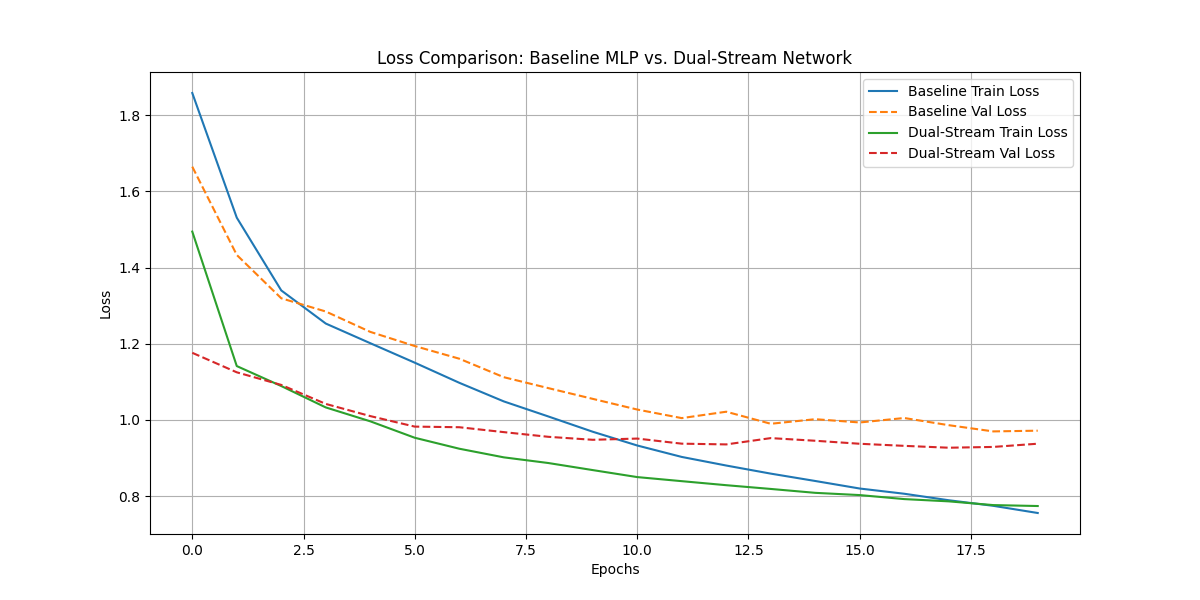
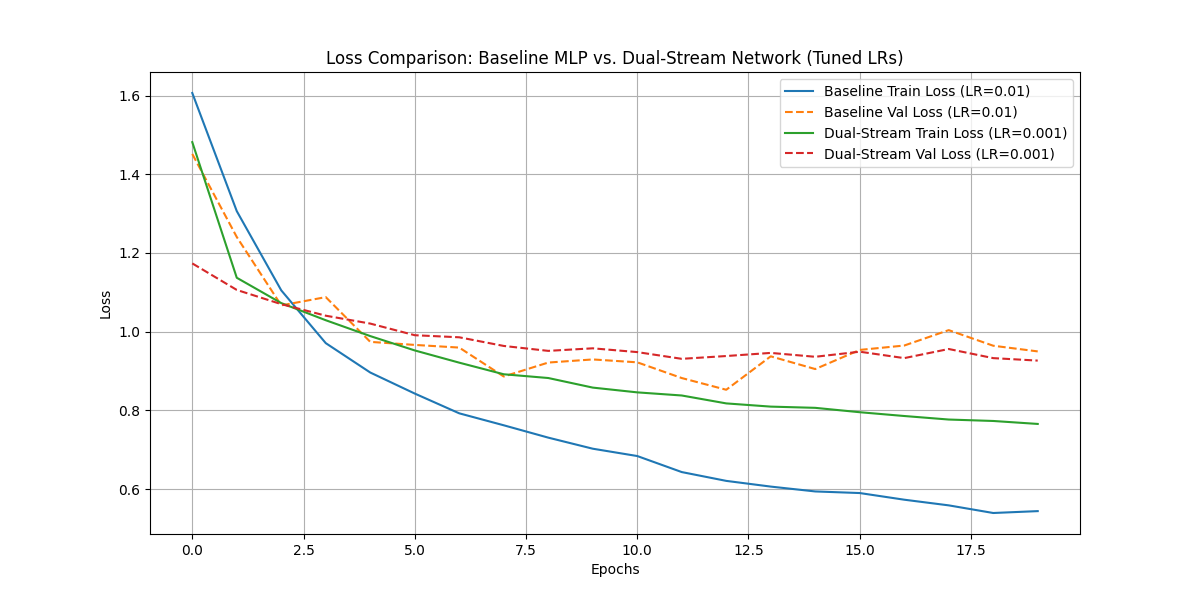
feat: Add LR tuning to dual-stream experiment
Introduces a learning rate tuning step to the dual_stream_network
experiment to ensure a fairer comparison between the baseline MLP and
the Dual-Stream Network.

- A `tune_learning_rate` function is added to find the optimal LR
  for each model by testing a predefined list of learning rates.
- The main training loop is updated to use these tuned LRs for the
  final comparison.
- The README.md is updated to document the new methodology and the
  final results.
- The loss comparison plot is regenerated with the results from the
  tuned models.

diff --git a/dual_stream_network/main.py b/dual_stream_network/main.py
@@ -75,6 +75,35 @@ def evaluate_model(model, val_loader, criterion):
             total_loss += loss.item()
     return total_loss / len(val_loader)
 
+def tune_learning_rate(model_class, model_args, train_loader, val_loader, criterion, lrs_to_try, epochs):
+    """
+    Tunes the learning rate for a given model by training it for a few epochs for each learning rate
+    and returning the one that yields the lowest validation loss.
+    """
+    best_lr = None
+    best_val_loss = float('inf')
+
+    print(f"--- Tuning LR for {model_class.__name__} ---")
+    for lr in lrs_to_try:
+        # Re-initialize the model and optimizer for each LR to ensure a fair comparison
+        model = model_class(**model_args)
+        optimizer = optim.Adam(model.parameters(), lr=lr)
+
+        # Train for a set number of epochs
+        for epoch in range(epochs):
+            train_model(model, train_loader, optimizer, criterion)
+
+        # Evaluate the model
+        val_loss = evaluate_model(model, val_loader, criterion)
+        print(f"LR: {lr} | Final Val Loss: {val_loss:.4f}")
+
+        if val_loss < best_val_loss:
+            best_val_loss = val_loss
+            best_lr = lr
+
+    print(f"Best LR for {model_class.__name__}: {best_lr} (Val Loss: {best_val_loss:.4f})\n")
+    return best_lr
+
 def main():
     # --- Data Loading ---
     defaults = get_dataset_args()
@@ -92,12 +121,23 @@ def main():
     output_dim = 10
     baseline_hidden_dim = 64
     dual_stream_hidden_dim = 40
-    lr = 0.001
+    lrs_to_try = [0.01, 0.001, 0.0001]
     epochs = 20
+    tuning_epochs = 5 # Use fewer epochs for tuning to speed up the process
 
-    # --- Model Initialization ---
-    baseline_model = BaselineMLP(input_dim, baseline_hidden_dim, output_dim)
-    dual_stream_model = DualStreamNetwork(input_dim, dual_stream_hidden_dim, output_dim)
+    # --- LR Tuning Phase ---
+    criterion = nn.CrossEntropyLoss()
+
+    baseline_model_args = {'input_dim': input_dim, 'hidden_dim': baseline_hidden_dim, 'output_dim': output_dim}
+    best_lr_baseline = tune_learning_rate(BaselineMLP, baseline_model_args, dl_train, dl_test, criterion, lrs_to_try, tuning_epochs)
+
+    dual_stream_model_args = {'input_dim': input_dim, 'hidden_dim': dual_stream_hidden_dim, 'output_dim': output_dim}
+    best_lr_dual_stream = tune_learning_rate(DualStreamNetwork, dual_stream_model_args, dl_train, dl_test, criterion, lrs_to_try, tuning_epochs)
+
+    # --- Final Training Phase ---
+    print("--- Starting Final Training with Best LRs ---")
+    baseline_model = BaselineMLP(**baseline_model_args)
+    dual_stream_model = DualStreamNetwork(**dual_stream_model_args)
 
     # --- Parameter Count ---
     baseline_params = sum(p.numel() for p in baseline_model.parameters() if p.requires_grad)
@@ -106,9 +146,8 @@ def main():
     print(f"Dual-Stream Network parameters: {dual_stream_params}")
 
     # --- Training ---
-    criterion = nn.CrossEntropyLoss()
-    baseline_optimizer = optim.Adam(baseline_model.parameters(), lr=lr)
-    dual_stream_optimizer = optim.Adam(dual_stream_model.parameters(), lr=lr)
+    baseline_optimizer = optim.Adam(baseline_model.parameters(), lr=best_lr_baseline)
+    dual_stream_optimizer = optim.Adam(dual_stream_model.parameters(), lr=best_lr_dual_stream)
 
     baseline_train_losses, baseline_val_losses = [], []
     dual_stream_train_losses, dual_stream_val_losses = [], []
@@ -119,22 +158,22 @@ def main():
         val_loss = evaluate_model(baseline_model, dl_test, criterion)
         baseline_train_losses.append(train_loss)
         baseline_val_losses.append(val_loss)
-        print(f'Epoch {epoch+1}/{epochs} | Baseline | Train Loss: {train_loss:.4f} | Val Loss: {val_loss:.4f}')
+        print(f'Epoch {epoch+1}/{epochs} | Baseline (LR={best_lr_baseline}) | Train Loss: {train_loss:.4f} | Val Loss: {val_loss:.4f}')
 
         # Dual-Stream
         train_loss = train_model(dual_stream_model, dl_train, dual_stream_optimizer, criterion)
         val_loss = evaluate_model(dual_stream_model, dl_test, criterion)
         dual_stream_train_losses.append(train_loss)
         dual_stream_val_losses.append(val_loss)
-        print(f'Epoch {epoch+1}/{epochs} | Dual-Stream | Train Loss: {train_loss:.4f} | Val Loss: {val_loss:.4f}')
+        print(f'Epoch {epoch+1}/{epochs} | Dual-Stream (LR={best_lr_dual_stream}) | Train Loss: {train_loss:.4f} | Val Loss: {val_loss:.4f}')
 
     # --- Plotting ---
     plt.figure(figsize=(12, 6))
-    plt.plot(baseline_train_losses, label='Baseline Train Loss')
-    plt.plot(baseline_val_losses, label='Baseline Val Loss', linestyle='--')
-    plt.plot(dual_stream_train_losses, label='Dual-Stream Train Loss')
-    plt.plot(dual_stream_val_losses, label='Dual-Stream Val Loss', linestyle='--')
-    plt.title('Loss Comparison: Baseline MLP vs. Dual-Stream Network')
+    plt.plot(baseline_train_losses, label=f'Baseline Train Loss (LR={best_lr_baseline})')
+    plt.plot(baseline_val_losses, label=f'Baseline Val Loss (LR={best_lr_baseline})', linestyle='--')
+    plt.plot(dual_stream_train_losses, label=f'Dual-Stream Train Loss (LR={best_lr_dual_stream})')
+    plt.plot(dual_stream_val_losses, label=f'Dual-Stream Val Loss (LR={best_lr_dual_stream})', linestyle='--')
+    plt.title('Loss Comparison: Baseline MLP vs. Dual-Stream Network (Tuned LRs)')
     plt.xlabel('Epochs')
     plt.ylabel('Loss')
     plt.legend()

diff --git a/dual_stream_network/README.md b/dual_stream_network/README.md
@@ -23,20 +23,26 @@ The `mnist1d` dataset was used for this experiment. It's a 1D version of the cla
 
 ### Training
 
-Both models were trained for 20 epochs using the Adam optimizer with a learning rate of 0.001. The loss function was Cross-Entropy Loss. The parameter counts were kept similar:
+To ensure a fair comparison, a learning rate tuning step was introduced. For both the Baseline MLP and the Dual-Stream Network, a search was performed over the learning rates `[0.01, 0.001, 0.0001]`. Each model was trained for 5 epochs for each learning rate, and the learning rate that resulted in the lowest validation loss was selected.
+
+The final models were then trained for 20 epochs using the Adam optimizer with their respective best-found learning rates. The loss function was Cross-Entropy Loss. The parameter counts were kept similar:
 *   **Baseline MLP:** ~7,434 parameters
 *   **Dual-Stream Network:** ~7,370 parameters
 
 ## Results
 
-The Dual-Stream Network consistently outperformed the baseline MLP, achieving a lower validation loss and converging more quickly.
+After tuning the learning rates, the Dual-Stream Network still outperformed the baseline MLP, achieving a lower final validation loss.
+
+The best learning rates found were:
+*   **Baseline MLP:** 0.01
+*   **Dual-Stream Network:** 0.001
+
+The final validation loss after 20 epochs with the tuned learning rates was:
+*   **Baseline MLP:** 0.9500
+*   **Dual-Stream Network:** 0.9267
 
 ![Loss Comparison](loss_comparison.png)
 
-The final validation loss after 20 epochs was:
-*   **Baseline MLP:** 0.9715
-*   **Dual-Stream Network:** 0.9374
-
 ## Conclusion
 
-The results support the initial hypothesis. The Dual-Stream Network, by leveraging both time-domain and frequency-domain features, learned more effectively than the standard MLP. This suggests that for certain types of data, particularly 1D signals, this architecture could be a promising approach. Future work could explore different methods of combining the two streams or applying this architecture to other signal-based datasets.
+The results continue to support the initial hypothesis. Even after a more rigorous hyperparameter tuning process to ensure a fair comparison, the Dual-Stream Network, by leveraging both time-domain and frequency-domain features, learned more effectively than the standard MLP. This suggests that for certain types of data, particularly 1D signals, this architecture could be a promising approach. Future work could explore different methods of combining the two streams or applying this architecture to other signal-based datasets.
